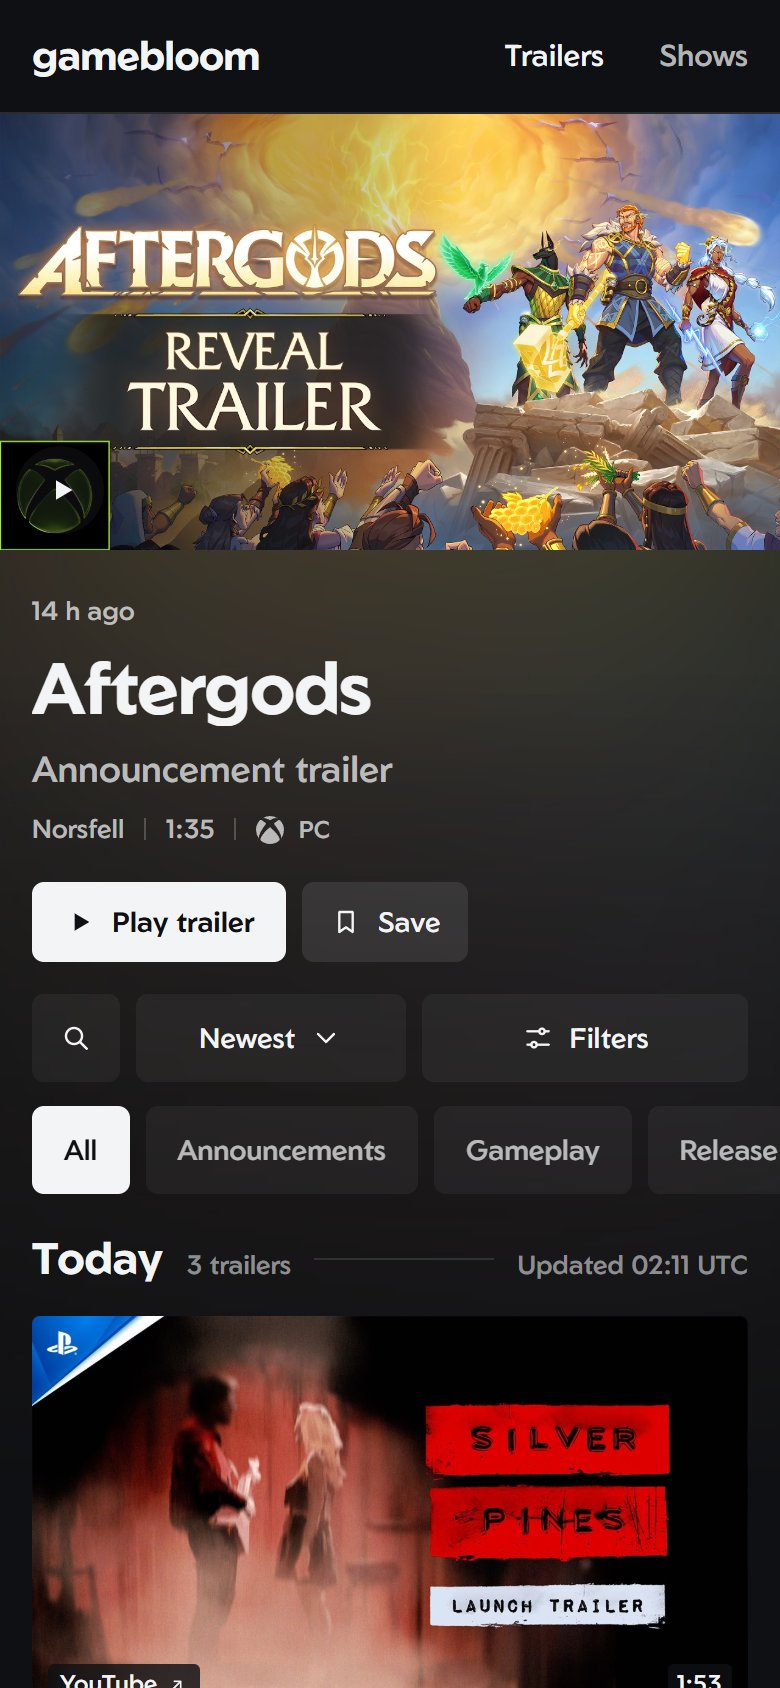
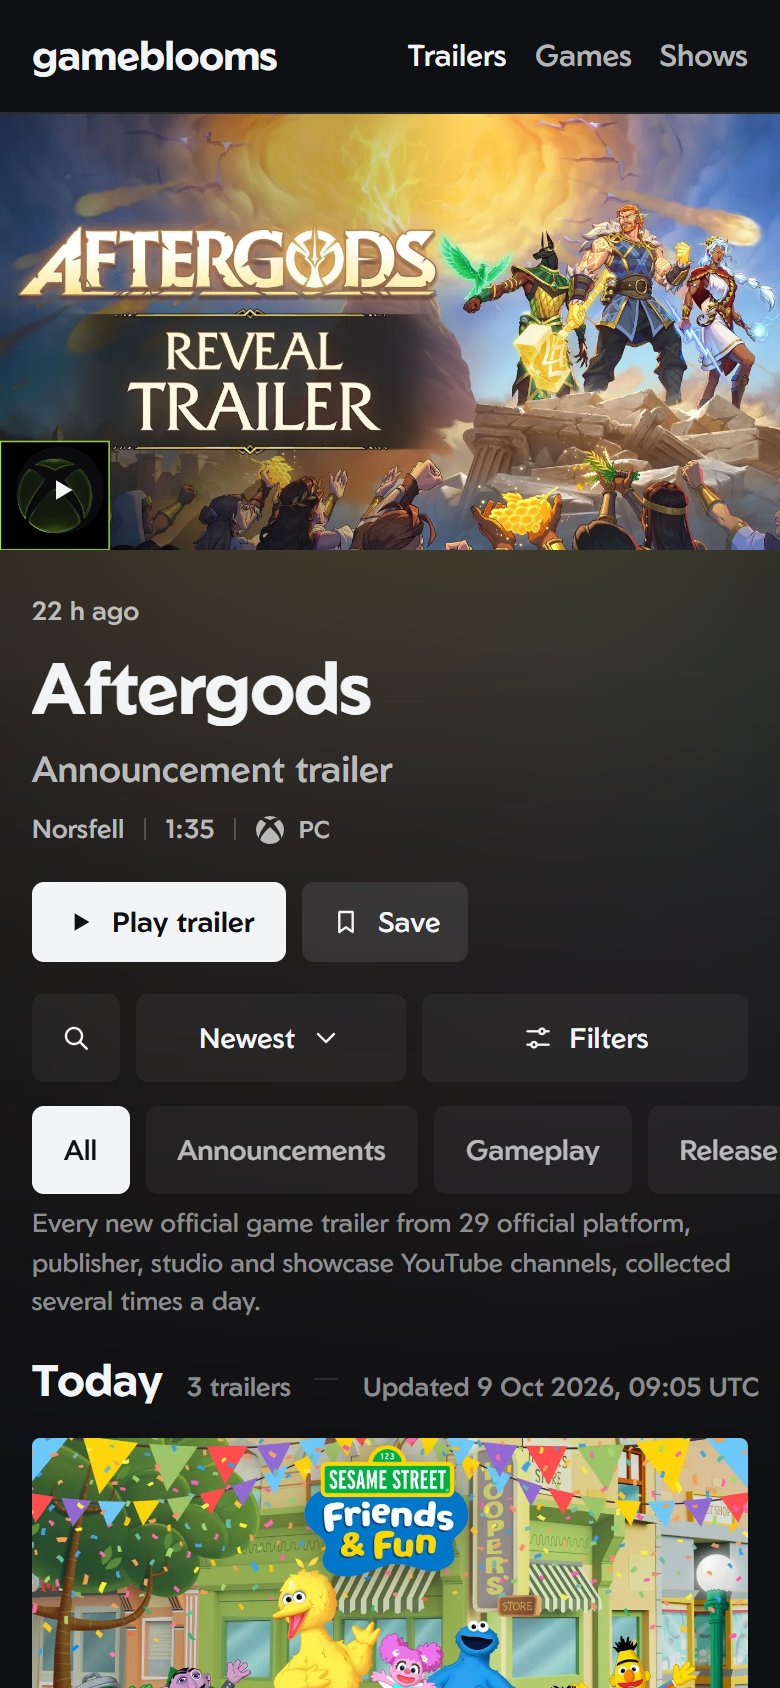
Rename gamebloom to gameblooms
The site moved to gameblooms.com; name, links and images follow.

diff --git a/README.md b/README.md
@@ -1,11 +1,11 @@
-# gamebloom
+# gameblooms
 
 **Every new game trailer on one page, and every game from the big showcases, indexed one by one.**
 
-**[gamebloom.vercel.app](https://gamebloom.vercel.app)**
+**[gameblooms.com](https://gameblooms.com)**
 
 <p align="center">
-  <img src="docs/images/home.jpg" width="820" alt="gamebloom home page: the day's featured trailer as a big screen, filters, and the newest trailers grouped by day">
+  <img src="docs/images/home.jpg" width="820" alt="gameblooms home page: the day's featured trailer as a big screen, filters, and the newest trailers grouped by day">
 </p>
 
 > This repository is a showcase. The source code is private; the site itself is public and free to use.
@@ -33,8 +33,8 @@ player modes, release date, store links and the trailer, and every field traces 
 orders: **show order** for catching up on what you missed, and **soonest release** - the order the
 broadcast hides.
 
-- [gamescom Opening Night Live 2026](https://gamebloom.vercel.app/shows/gamescom-onl-2026) - 72 games
-- [Nintendo Direct, 9 September 2026](https://gamebloom.vercel.app/shows/nintendo-direct-2026-09-09) - 61 games
+- [gamescom Opening Night Live 2026](https://gameblooms.com/shows/gamescom-onl-2026) - 72 games
+- [Nintendo Direct, 9 September 2026](https://gameblooms.com/shows/nintendo-direct-2026-09-09) - 61 games
 
 <p align="center">
   <img src="docs/images/onl-2026.jpg" width="820" alt="Opening Night Live 2026: the running order, each game with its studio, kind of trailer, release date and platforms">
@@ -56,7 +56,7 @@ broadcast hides.
 <p align="center">
   <img src="docs/images/home-feed.jpg" width="540" alt="The trailer grid: newest first, with filters for the kind of trailer and the platform">
   &nbsp;
-  <img src="docs/images/mobile-home.jpg" width="200" alt="gamebloom on a phone">
+  <img src="docs/images/mobile-home.jpg" width="200" alt="gameblooms on a phone">
 </p>
 
 ## Stack
@@ -67,4 +67,4 @@ collector refreshes the trailer data, and no video player loads until you click 
 ---
 
 Made by [Chronosaur](https://github.com/Chronosauros). Game names, artwork and trailers belong to their
-respective owners; gamebloom links to the official sources.
+respective owners; gameblooms links to the official sources.
